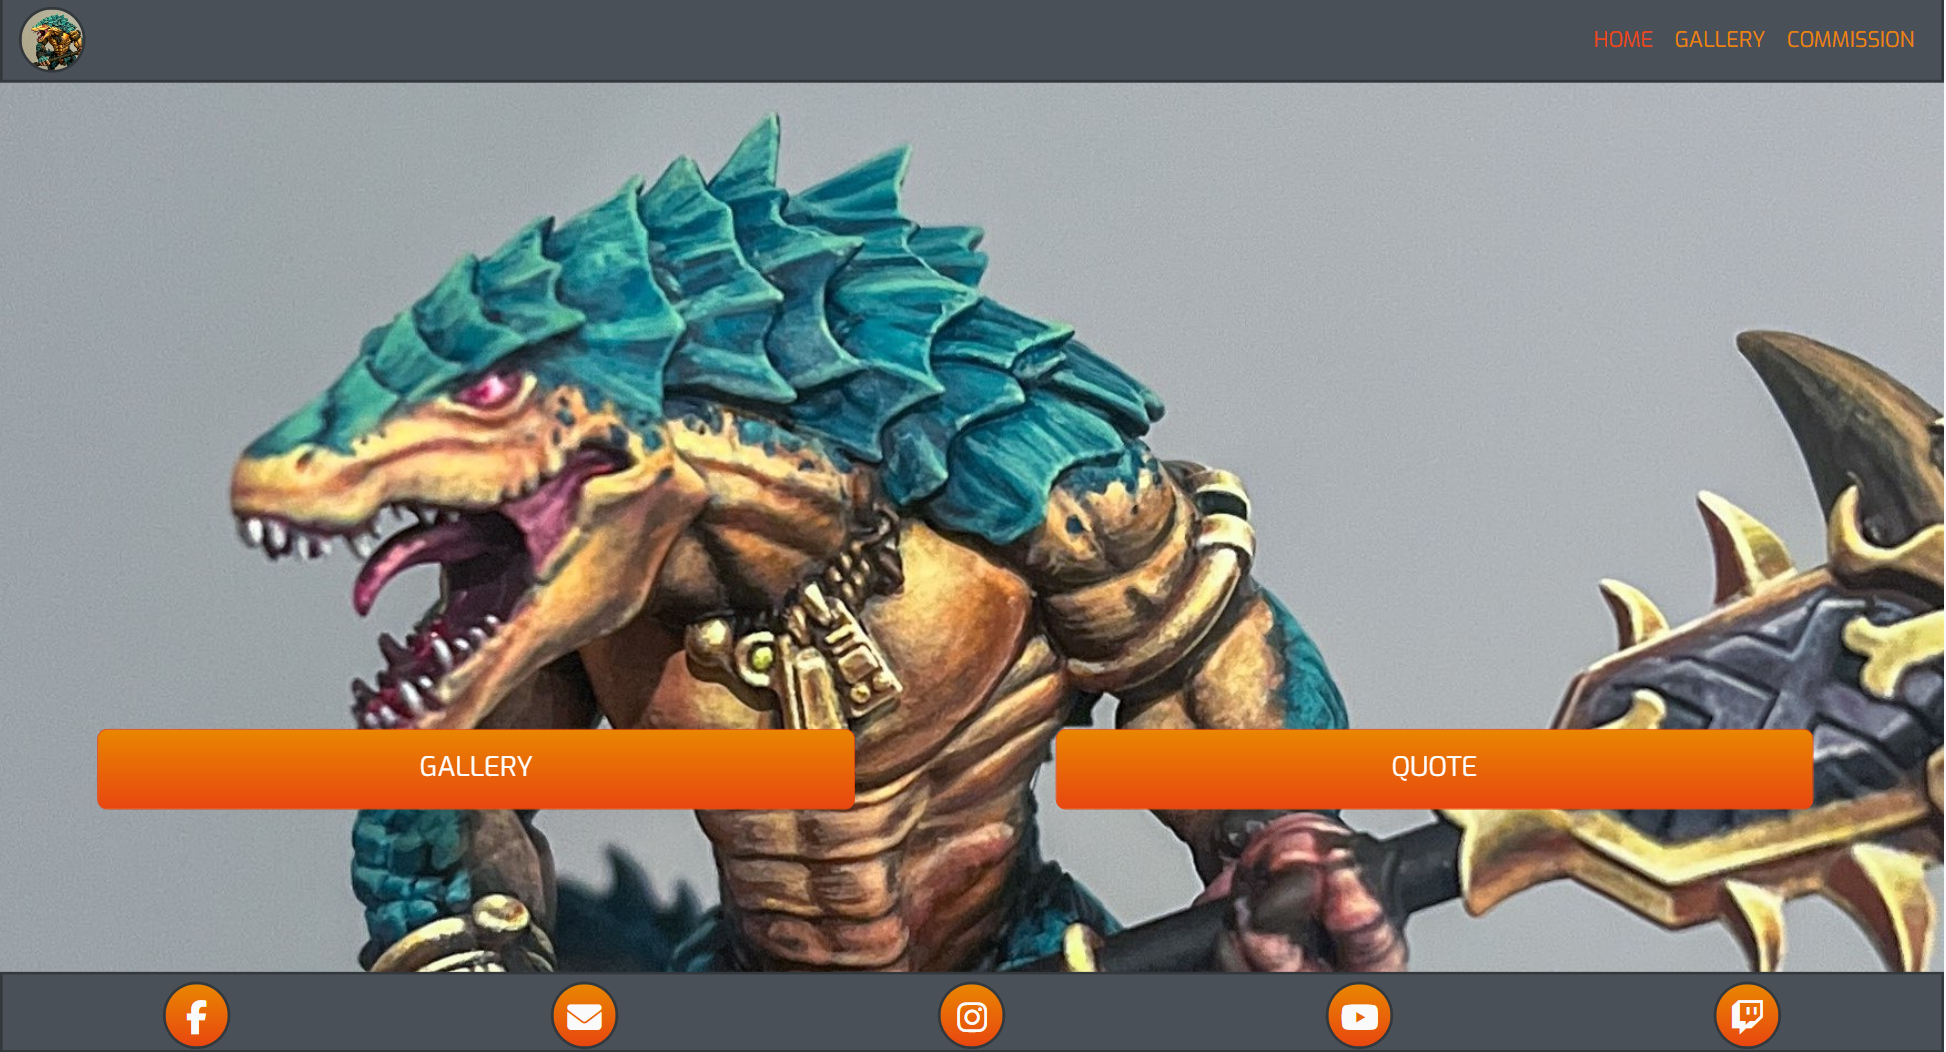
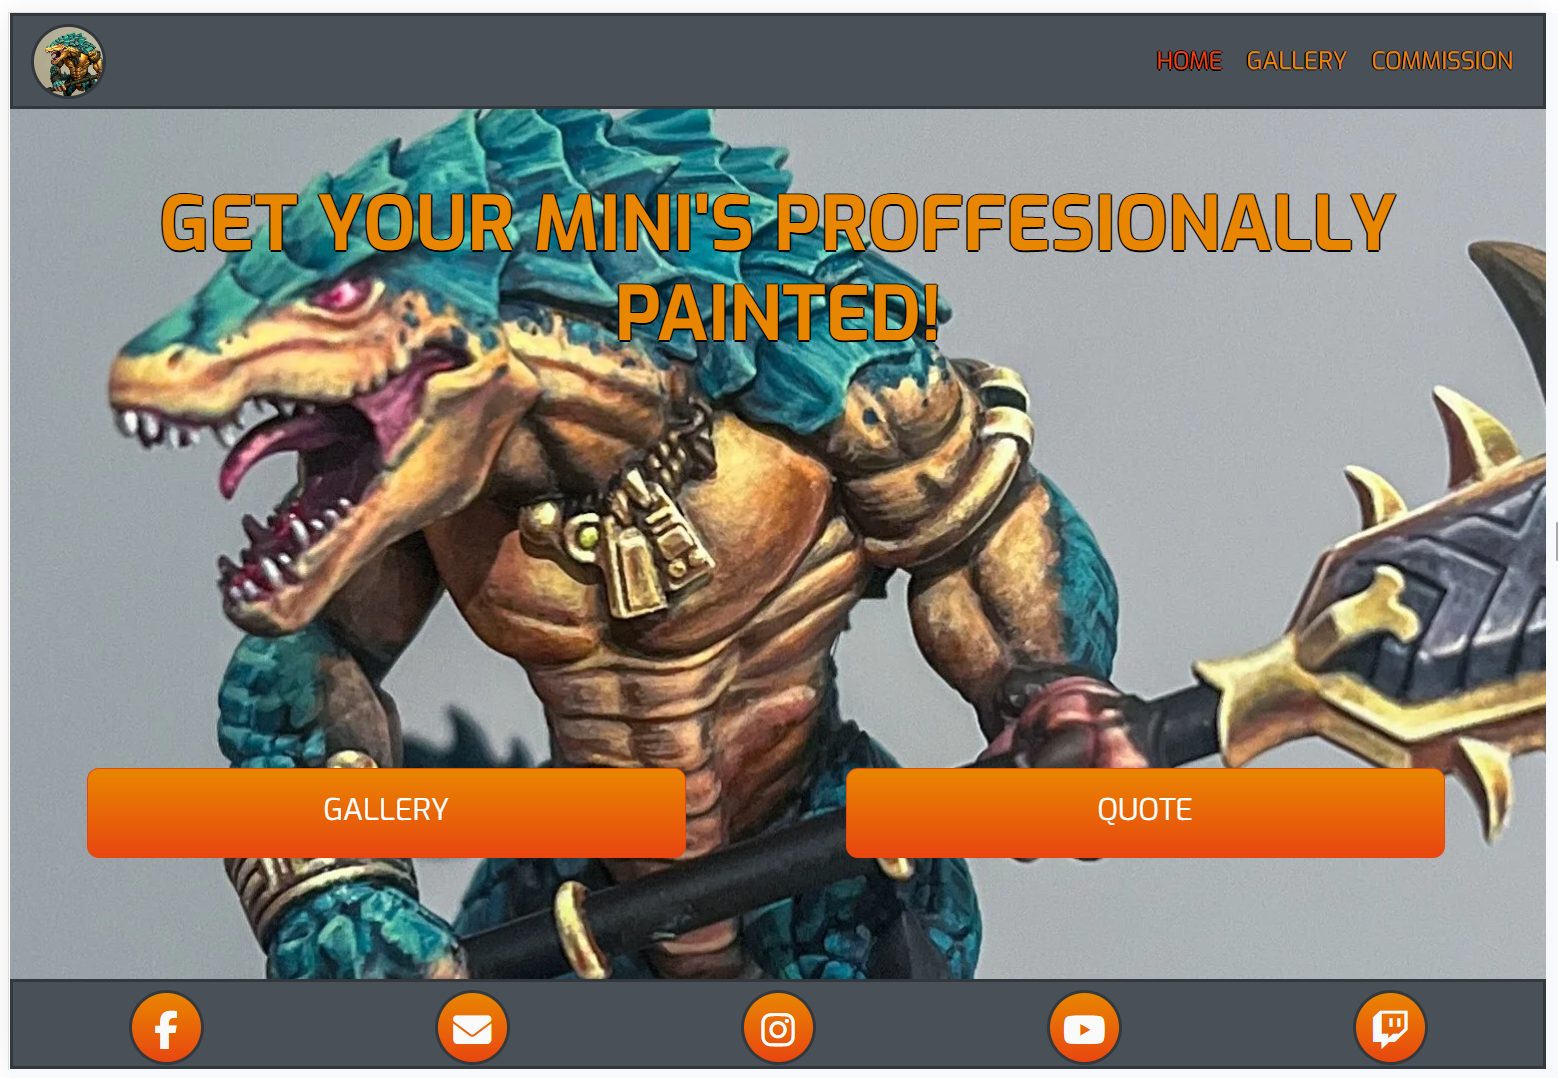
updated new final homepage images

diff --git a/README.md b/README.md
@@ -119,6 +119,9 @@ If this section grows too long, you may want to split it off into a separate fil
 
    - thankyou.html: No errors were returned when passing through the official W3C validator<br> https://validator.w3.org/nu/?doc=https%3A%2F%2Fsamuelmackay.github.io%2Fminiature-commission-painter%2Fthankyou.html
 
+- CSS 
+    - style.css: No errors were returned when passing through offical Jigsaw validator<br> http://jigsaw.w3.org/css-validator/validator?lang=en&profile=css3svg&uri=https%3A%2F%2Fsamuelmackay.github.io%2Fminiature-commission-painter%2Fassets%2Fcss%2Fstyle.css&usermedium=all&vextwarning=&warning=1
+
 ### Bugs
 #### Bug 1
 - The landing page image was not scaling as intended over all screen sizes, so i added new code and multiple images to load at correct screen sizes
@@ -190,7 +193,7 @@ Style:
 Original Code:
 ```
 .custom-toggler .navbar-toggler-icon {
-  ackground-image: #e98600;
+  background-image: #e98600;
 }
 ```
 New Code:
@@ -224,11 +227,11 @@ New Code:
 - Added a height of 525px to the form element.
 Original Code:
 ```
-<form class="form-height" action="thankyou.html" method="#">
+        <form action="thankyou.html" target="_self">
 ```
 New Code:
 ```
-<form class="form-height" action="thankyou.html" method="#">
+        <form class="form-height" action="thankyou.html" target="_self">
 
 style:
 .form-height{
@@ -237,22 +240,14 @@ style:
 
 ```
 
-### Validator Testing
-<!-->
-- HTML
-  - No errors were returned when passing through the official [W3C validator](https://validator.w3.org/nu/?doc=https%3A%2F%2Fcode-institute-org.github.io%2Flove-running-2.0%2Findex.html)
-- CSS
-  - No errors were found when passing through the official [(Jigsaw) validator](https://jigsaw.w3.org/css-validator/validator?uri=https%3A%2F%2Fvalidator.w3.org%2Fnu%2F%3Fdoc%3Dhttps%253A%252F%252Fcode-institute-org.github.io%252Flove-running-2.0%252Findex.html&profile=css3svg&usermedium=all&warning=1&vextwarning=&lang=en#css)-->
-
 ### Unfixed Bugs
-
--Commission Page is breaking at smaller screen heights. Cant see the lower half of the form and it won't scroll.
+ - n/a
 
 ### User stories Testing
 |Story No.|Result|Story/ Evidence|
 | ------------- | ------------- | ------------- |
 |1|<font color="green">Test Pass</font>|As a First-time User, <br> I want to be able to see examples of what the artist has created <br> so I can tell if they are worth the money and if I want to have my army look like that. <br><br> I know I am done when I have an easy to use gallery that shows all past commissions and artwork <br><br>Evidence:<br>There is an easy to access and simple gallery to display images.<br> ![Gallery](assets/media/final-gallery-desktop.png)|
-|2|<font color="green">Test Pass</font> |As the artist, <br> I want anyone who goes to the website to be able to get the information they need easily <br> so that users are more likely to view my art and request a commission. <br><br> I know I am done when I have and inviting landing page with noticeable buttons for seeing the gallery and getting a quote for a commission.<br><br>Evidence:<br>The Home page has a big Image of a recent commission and has to easy to see,read and understand call to action buttons. <br>![home](assets/media/dropin.webp)![Home](assets/media/final-home-desktop.png)|
+|2|<font color="green">Test Pass</font> |As the artist, <br> I want anyone who goes to the website to be able to get the information they need easily <br> so that users are more likely to view my art and request a commission. <br><br> I know I am done when I have and inviting landing page with noticeable buttons for seeing the gallery and getting a quote for a commission.<br><br>Evidence:<br>The Home page has a big Image of a recent commission and has to easy to see,read and understand call to action buttons. <br> ![Home](assets/media/final-home-desktop.png)|
 |3|*<font color="yellow">Test Pass, more required</font>* |As a Potential Buyer, <br> I want to be able to get in touch with the artist about my idea and quickly get a quote <br> So I can get an idea how much it will cost and how long it will take <br><br> I know I am done when I have a way to contact the artist, and easy to follow instructions to get the important information across to get an accurate quote.<br><br>Evidence:<br> Potential buyers have a form that makes guides you to give all the important information to get an accurate quote, in a simple and quick format. (Currently only links to a thankyou.html, still needs to be connected to a backend system)<br>![Commission](assets/media/final-commission-desktop.png)||
 |4|*<font color="yellow">Test Pass, more required</font>* |As a First-time user,<br> I want to be able to find a community of like-minded people <br> so I can find people who share my interests. <br> <br> I know I am done users can quickly find social media links to the artists community, video tutorials and live streams.<br><br>Evidence:<br> First time users have a noticble footer that always shows at the bottom of the screen with simple, recognisable icons to portray the social network connected to the link. (currently only links to the homepage of the websites connected, actual social media accounts will need to be created to be linked).<br>![Footer](assets/media/final-footer-desktop.png)|
 |5|<font color="green">Test Pass</font> |As a new painter, <br> I want to be able to get tips on how to paint better <br> so that I can improve as a painter.<br> <br> I know I am done when users can find tutorials on the arists platorms. <br><br>Evidence:<br> In the gallery there are imbedded youtube videos that are tutorials. and there are links to the artists social media's in the footer.(Embedded video is a place holder)<br> ![Embedded Video Tutorials](assets/media/final-gallery-desktop.png)|
